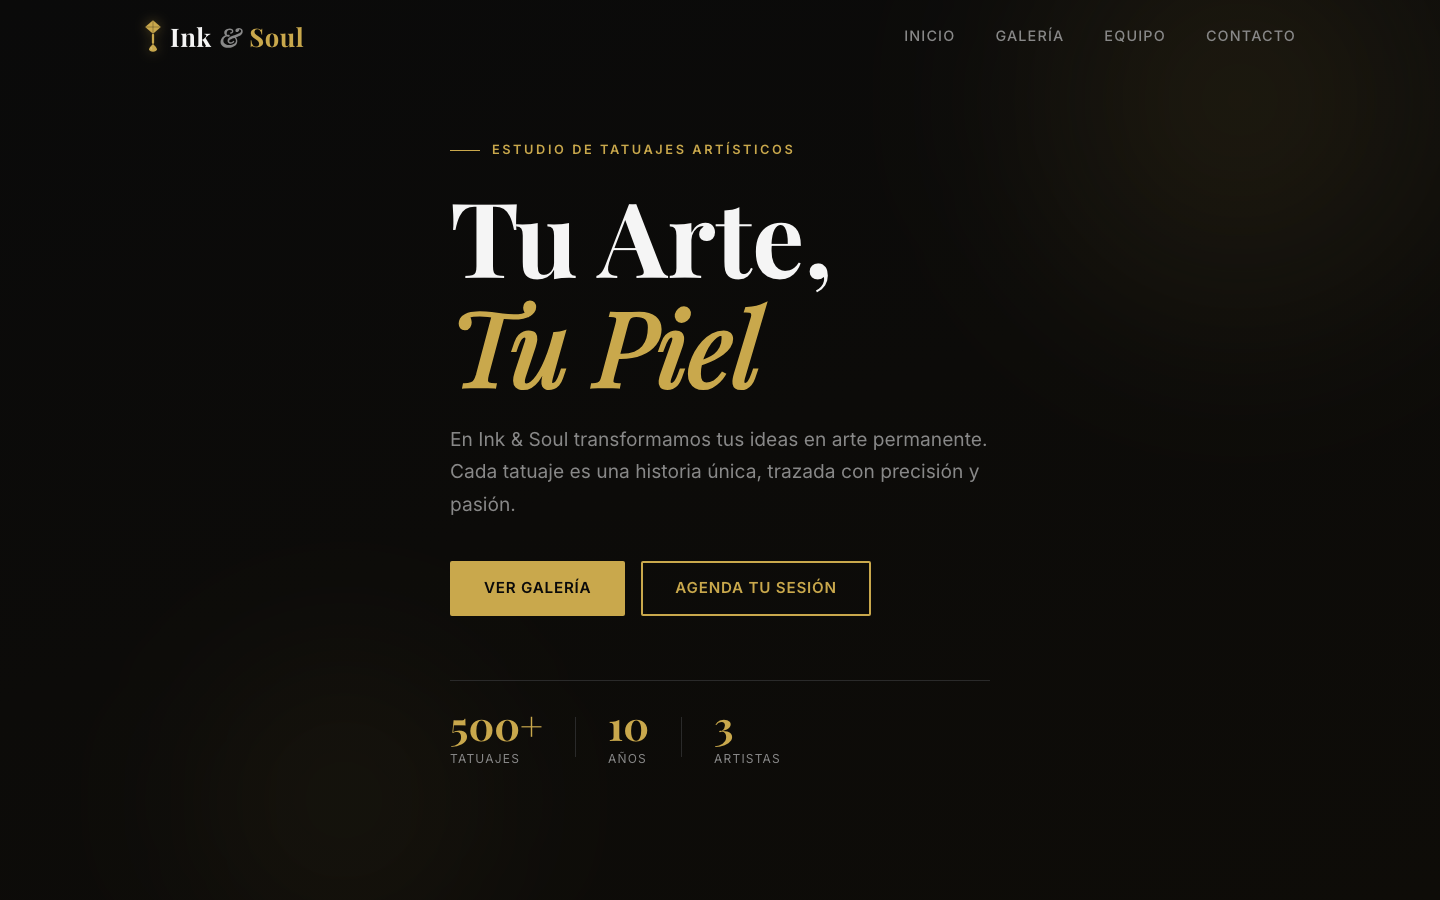
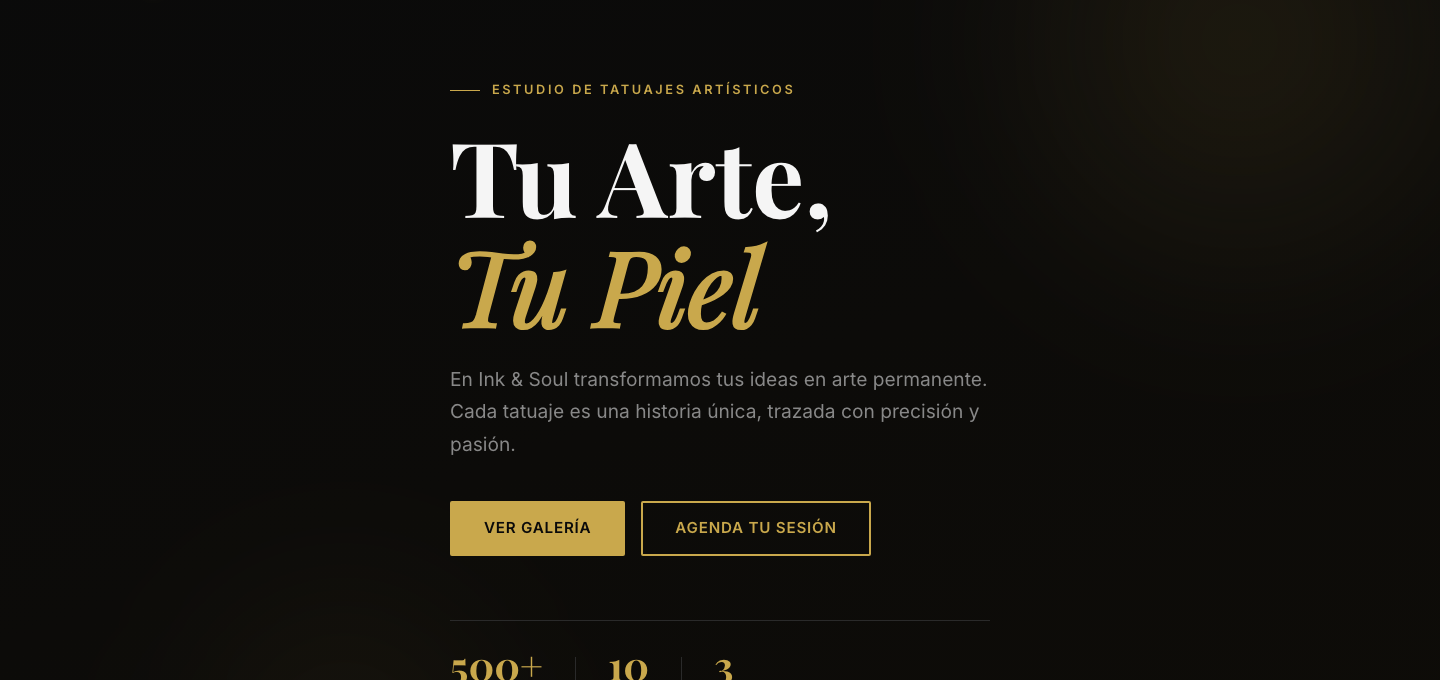
fix(portfolio): screenshot recortado al hero, preview más alto
Muestra solo el hero de Ink & Soul (sin navbar) para que la tipografía
llene el frame y se vea más profesional. Altura del preview 220→280px.

diff --git a/src/app/components/portfolio/portfolio.scss b/src/app/components/portfolio/portfolio.scss
@@ -38,7 +38,7 @@
 }
 
 .portfolio__preview {
-  height: 220px;
+  height: 280px;
   background: linear-gradient(135deg, rgba(91, 63, 212, 0.15) 0%, transparent 100%),
               linear-gradient(160deg, #0d0d0d 0%, #130f1e 100%);
   display: flex;